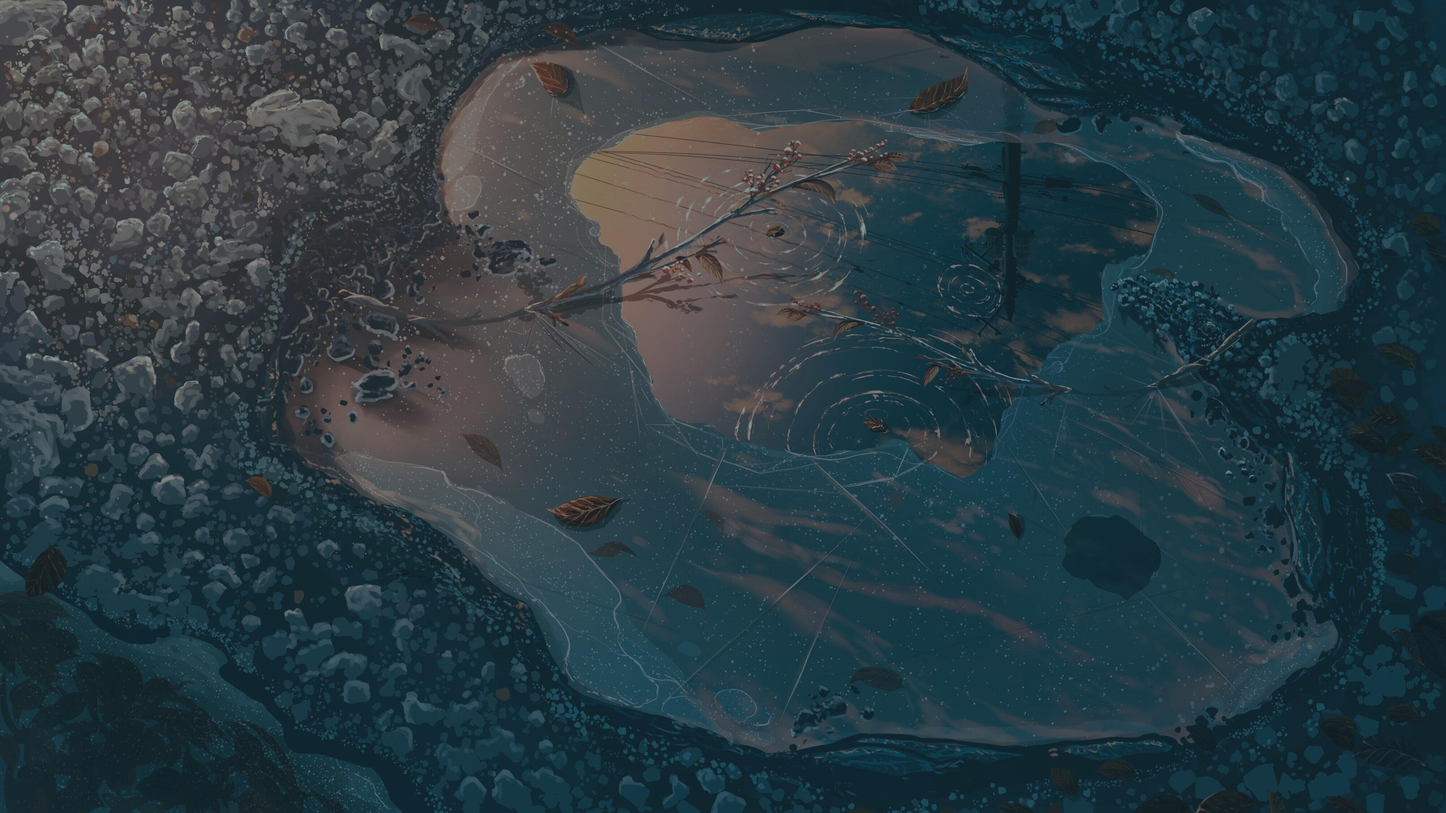
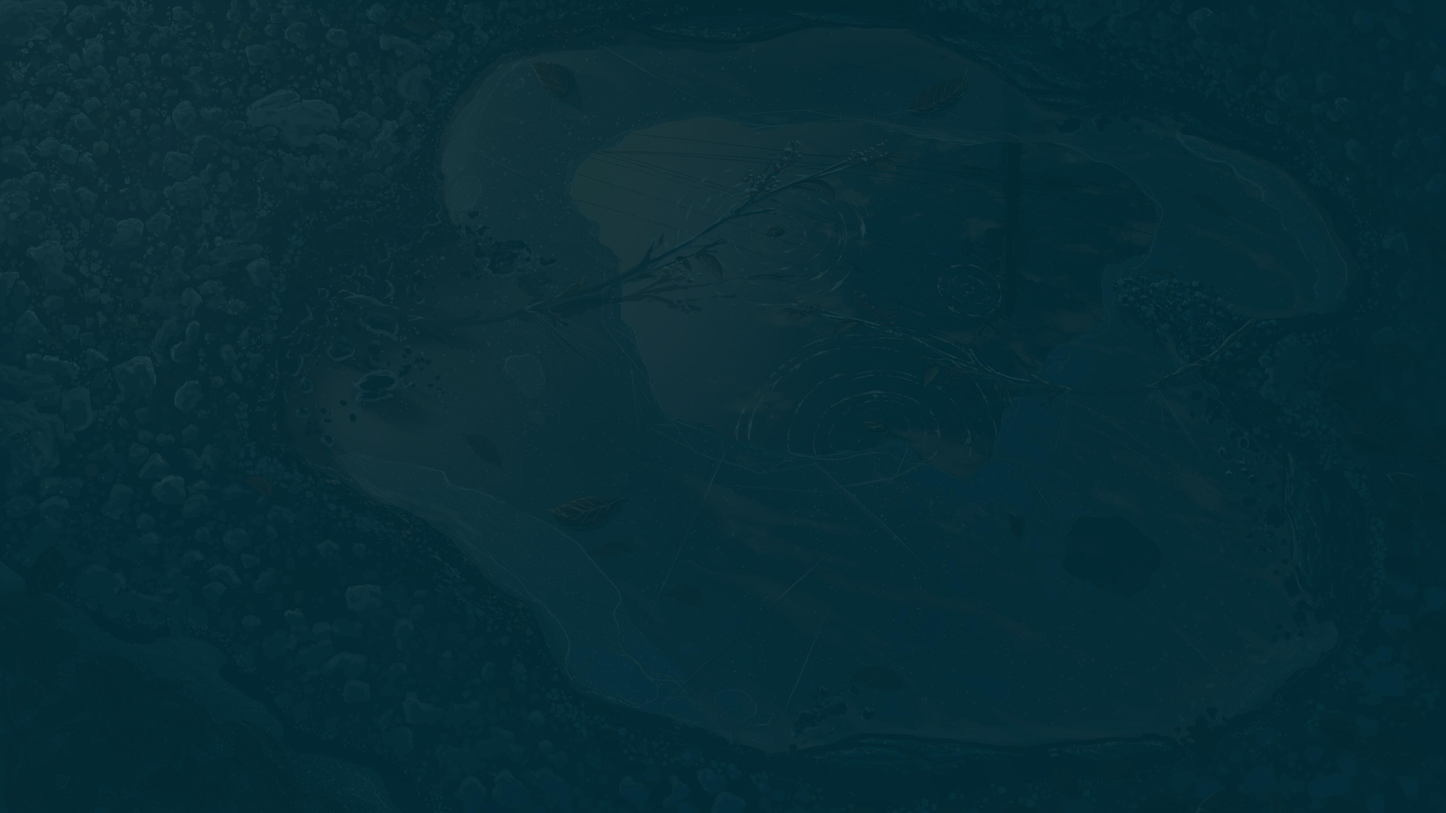
**New look!** Bar fully transparent with no border

diff --git a/.config/waybar/genstyle.css b/.config/waybar/genstyle.css
@@ -22,9 +22,10 @@
 window#waybar {
     padding: 0px;
     margin: 0px;
-    background: $(wq background);
+    /* background: $(wq background); */
+    background: transparent;
     color: $(wq foreground);
-    border-bottom: 2px solid $(wq color0);
+    /* border-bottom: 2px solid $(wq color0); */
 }
 
 #window {
@@ -39,8 +40,8 @@ window#waybar {
 }
 
 #workspaces {
-    margin-top: 6px;
-    margin-bottom: 6px;
+    margin-top: 12px;
+    margin-bottom: 0px;
     margin-left: 8px;
     margin-right: 8px;
     transition: none;
@@ -72,8 +73,8 @@ window#waybar {
 
 #cpu {
     color: transparent;
-    margin-top: 6px;
-    margin-bottom: 6px;
+    margin-top: 12px;
+    margin-bottom: 0px;
     margin-left: 6px;
     margin-right: 6px;
     /* border-radius: 10px; */
@@ -88,15 +89,16 @@ window#waybar {
     /* background: $(wq color0); */
 }
 
-
 #custom-clock {
+    margin-top: 12px;
+    margin-bottom: 0px;
     color: $(wq color15);
 }
 
 
 #battery {
-    margin-top: 6px;
-    margin-bottom: 6px;
+    margin-top: 12px;
+    margin-bottom: 0px;
     margin-right: 6px;
     margin-left: 0px;
     padding: 0px 9px;
@@ -126,8 +128,8 @@ window#waybar {
 
 
 #network {
-    margin-top: 6px;
-    margin-bottom: 6px;
+    margin-top: 12px;
+    margin-bottom: 0px;
     margin-left: 0px;
     margin-right: 20px;
     padding-left: 6px;
@@ -144,8 +146,8 @@ window#waybar {
 
 
 #pulseaudio {
-    margin-top: 6px;
-    margin-bottom: 6px;
+    margin-top: 12px;
+    margin-bottom: 0px;
     margin-left: 6px;
     margin-right: 6px;
     padding: 0px 10px;

diff --git a/.config/waybar/style.css b/.config/waybar/style.css
@@ -22,9 +22,10 @@
 window#waybar {
     padding: 0px;
     margin: 0px;
-    background: #002b36;
+    /* background: #002b36; */
+    background: transparent;
     color: #93a1a1;
-    border-bottom: 2px solid #073642;
+    /* border-bottom: 2px solid #073642; */
 }
 
 #window {
@@ -39,8 +40,8 @@ window#waybar {
 }
 
 #workspaces {
-    margin-top: 6px;
-    margin-bottom: 6px;
+    margin-top: 12px;
+    margin-bottom: 0px;
     margin-left: 8px;
     margin-right: 8px;
     transition: none;
@@ -72,8 +73,8 @@ window#waybar {
 
 #cpu {
     color: transparent;
-    margin-top: 6px;
-    margin-bottom: 6px;
+    margin-top: 12px;
+    margin-bottom: 0px;
     margin-left: 6px;
     margin-right: 6px;
     /* border-radius: 10px; */
@@ -88,15 +89,16 @@ window#waybar {
     /* background: #073642; */
 }
 
-
 #custom-clock {
+    margin-top: 12px;
+    margin-bottom: 0px;
     color: #839496;
 }
 
 
 #battery {
-    margin-top: 6px;
-    margin-bottom: 6px;
+    margin-top: 12px;
+    margin-bottom: 0px;
     margin-right: 6px;
     margin-left: 0px;
     padding: 0px 9px;
@@ -126,8 +128,8 @@ window#waybar {
 
 
 #network {
-    margin-top: 6px;
-    margin-bottom: 6px;
+    margin-top: 12px;
+    margin-bottom: 0px;
     margin-left: 0px;
     margin-right: 20px;
     padding-left: 6px;
@@ -144,8 +146,8 @@ window#waybar {
 
 
 #pulseaudio {
-    margin-top: 6px;
-    margin-bottom: 6px;
+    margin-top: 12px;
+    margin-bottom: 0px;
     margin-left: 6px;
     margin-right: 6px;
     padding: 0px 10px;
